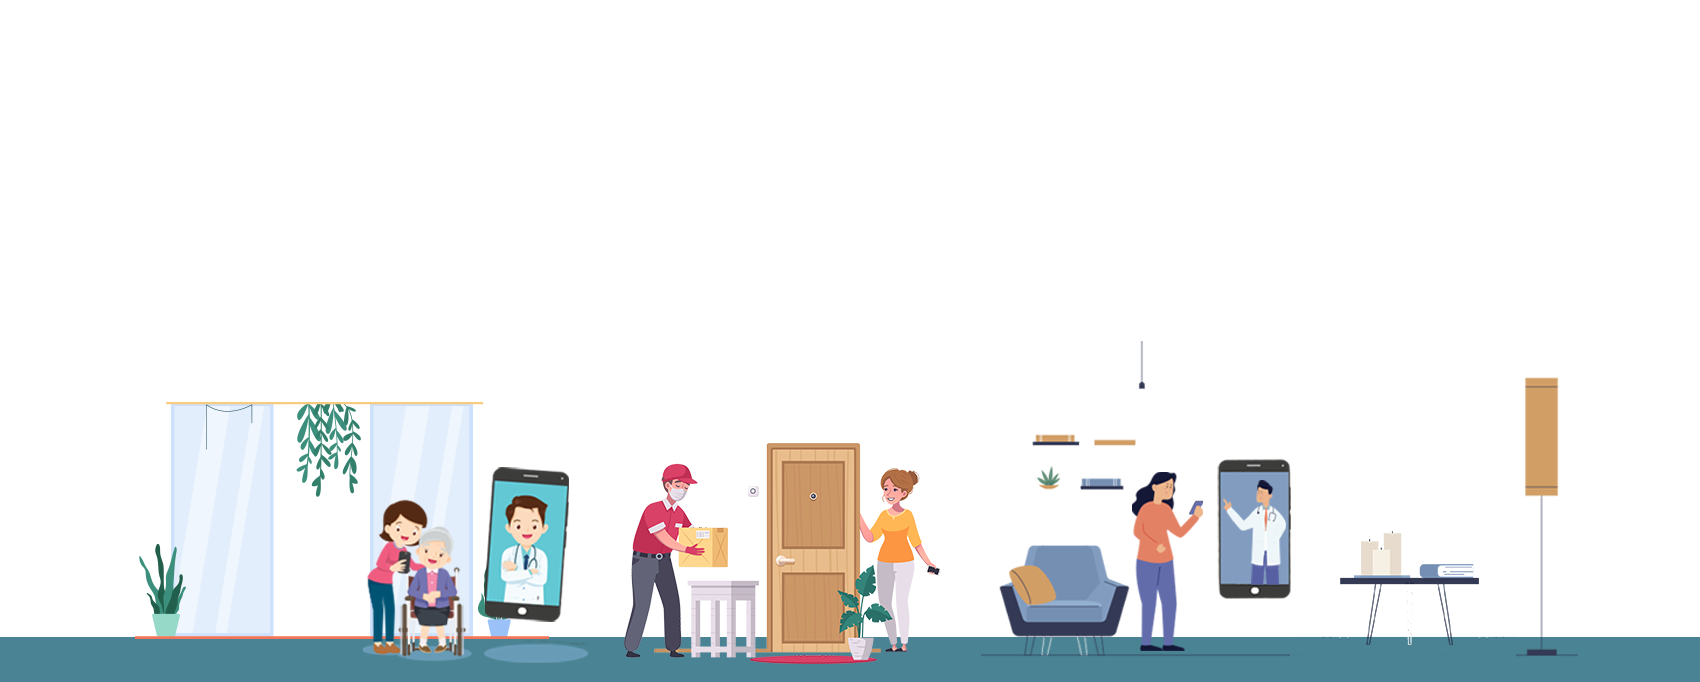
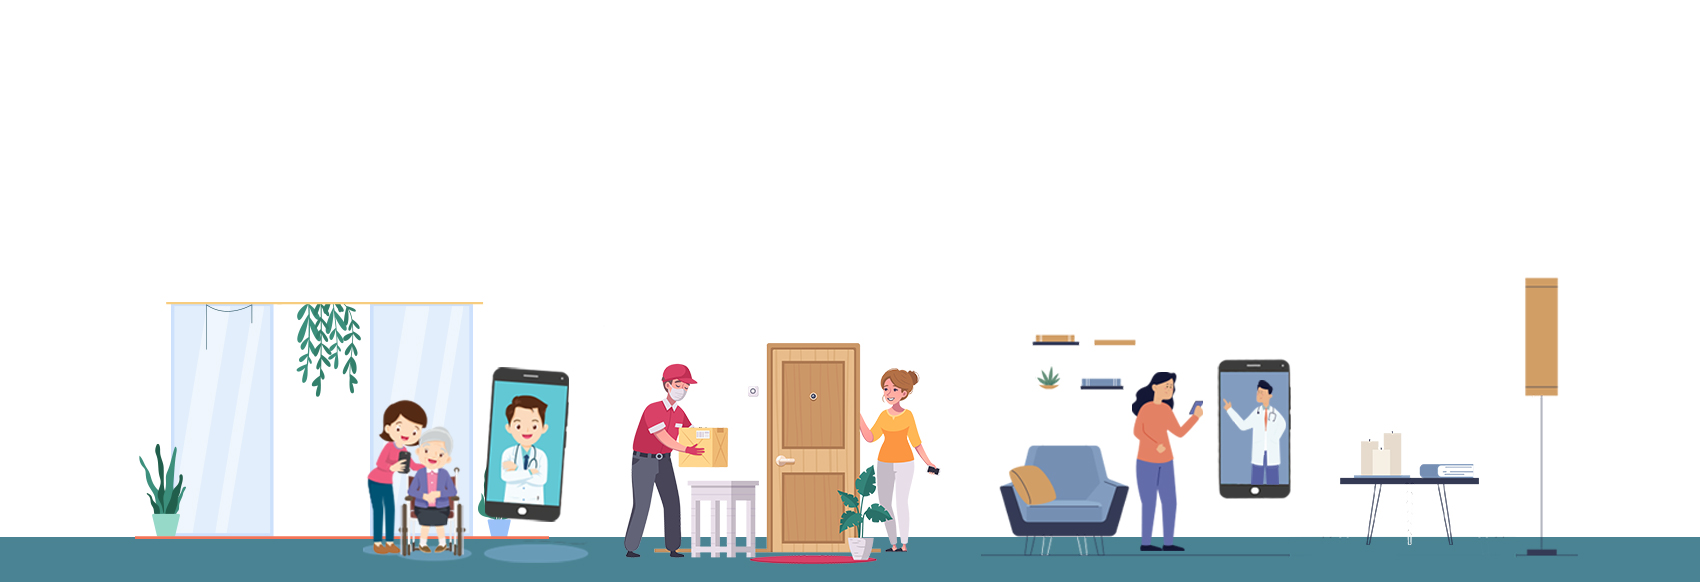
changes

Changed region(s): [[0.0, 0.4948, 1.0, 0.9897], [0.8729, 0.4639, 0.9353, 0.5567], [0.8729, 0.6804, 0.9353, 0.7423]]

diff --git a/src/components/WebSite/Pages/Diagnostics/Main/Diagnostics.js b/src/components/WebSite/Pages/Diagnostics/Main/Diagnostics.js
@@ -3,21 +3,17 @@ import './Diagnostics.css'
 import { DiagTop } from '../DiagData/Icons/DiagTop';
 import { DiagPop } from '../DiagData/Icons/DiagPop';
 import PosterCard from '../Poster/PosterCard';
-import 'bootstrap/dist/js/bootstrap.min';
-import '@popperjs/core/dist/umd/popper.min';
-import 'jquery/dist/jquery.min';
-// import { FontAwesomeIcon } from "@fortawesome/react-fontawesome";
-// import { faSearch } from '@fortawesome/free-solid-svg-icons';
-
-//images
-import iconOne from "../../../../assets/img/specialities/svg/1.svg";
-import iconTwo from "../../../../assets/img/specialities/svg/2.svg";
-import iconThree from "../../../../assets/img/specialities/svg/3.svg";
 import { Link } from 'react-router-dom';
 import { Container } from 'react-bootstrap';
 import Search from '../../DynamicComponents/SearchBar/app/Search';
 import Carousel from '../Components/Carousel';
 import Space from '../../DynamicComponents/Space/Space';
+import Appointment from '../../Appointments/AppointmentD/Appointment';
+//images
+import iconOne from "../../../../assets/img/specialities/svg/1.svg";
+import iconTwo from "../../../../assets/img/specialities/svg/2.svg";
+import iconThree from "../../../../assets/img/specialities/svg/3.svg";
+
 
 
 const Diagnostics = () => {
@@ -84,7 +80,7 @@ const Diagnostics = () => {
 										<div className="pop-box">
 											<div className='popper-design' key={item.id}>
 											<img width={64} height={64} src={item.img} alt=""/>
-											<h4>{item.text}</h4>
+											<h5>{item.text}</h5>
 										
 											</div>
 										</div>
@@ -99,6 +95,8 @@ const Diagnostics = () => {
 				<button className="btn view-btn">View More</button>
 				</Link>
 			</section>
+
+	<Appointment/>
 	
 	<section id="top-tests">
 	<article id="view-btn">
@@ -115,7 +113,7 @@ const Diagnostics = () => {
 									<Link to='/test-detail'>
 									<div className="top-test-1" key={item.id}>
 										<img className="top-test-img" src={item.img} alt=""/>
-										<h4>{item.text}</h4>
+										<h5>{item.text}</h5>
 									</div>
 									</Link>
 								</div>

diff --git a/src/components/WebSite/Pages/Appointments/AppointmentW/Appointment.js b/src/components/WebSite/Pages/Appointments/AppointmentW/Appointment.js
@@ -1,0 +1,30 @@
+import { Container, Row } from "react-bootstrap";
+import aWoman from '../../../../assets/img/app/woman-app.jpg';
+import './Appointment.css'
+
+const Appointment = () => {
+    return ( 
+        <>
+        <Container className='a-banner'>
+            <Row>
+                <div className="col-lg-6">
+                    <img src={aWoman} alt="a-home" />
+                </div>
+                <div className="col-lg-6">
+                    <section className='a-content'>
+                    <h2>Book a Telephonic Consultation</h2>
+                    <article className='con-content'>
+                    <p>Book this method if you want consultation with me over Phone. 
+                        This method is for those who are outside of Bangalore-India 
+                        and unable to visit clinic and meet me personally. </p>
+                        <button type="button" className="btn btn-success">Book Telephonic Appointment</button>
+                    </article>
+                    </section>
+                </div>
+            </Row>
+        </Container>
+        </>
+     );
+}
+ 
+export default Appointment;

diff --git a/src/components/WebSite/Pages/Appointments/AppointmentVC/Appointment.js b/src/components/WebSite/Pages/Appointments/AppointmentVC/Appointment.js
@@ -1,0 +1,30 @@
+import { Container, Row } from "react-bootstrap";
+import aWoman from '../../../../assets/img/app/vc.jpg';
+import './Appointment.css'
+
+const Appointment = () => {
+    return ( 
+        <>
+        <Container className='a-banner'>
+            <Row>
+                <div className="col-lg-6">
+                    <img src={aWoman} alt="a-home" />
+                </div>
+                <div className="col-lg-6">
+                    <section className='a-content'>
+                    <h2>Book a Telephonic Consultation</h2>
+                    <article className='con-content'>
+                    <p>Book this method if you want consultation with me over Phone. 
+                        This method is for those who are outside of Bangalore-India 
+                        and unable to visit clinic and meet me personally. </p>
+                        <button type="button" className="btn btn-success">Book Telephonic Appointment</button>
+                    </article>
+                    </section>
+                </div>
+            </Row>
+        </Container>
+        </>
+     );
+}
+ 
+export default Appointment;

diff --git a/src/components/WebSite/Pages/VirtualCare/VirtualCare.js b/src/components/WebSite/Pages/VirtualCare/VirtualCare.js
@@ -1,6 +1,5 @@
 import React from 'react';
 import { Row } from 'react-bootstrap';
-import AppSection from '../DynamicComponents/AppSectionV/AppSection';
 import MultipleItems from '../Doctors/Doctors/doctors';
 import './VirtualCare.css'
 import vBanner from '../../../assets/img/vbanner.jpg'
@@ -8,6 +7,7 @@ import FAQ from '../DynamicComponents/FAQ/FAQ'
 import Specialitites from '../DynamicComponents/Specialities/specialities';
 import Search from '../DynamicComponents/SearchBar/app/Search';
 import Space from '../DynamicComponents/Space/Space';
+import Appointment from '../Appointments/AppointmentVC/Appointment';
 
 function VirtualCare() {
   return (
@@ -25,8 +25,7 @@ function VirtualCare() {
         </article>
     </section>
     <Specialitites/>
-    
-    <AppSection/>
+<Appointment/>
     <div className="section-header text-center">
       <p className="section-p text-center">Top Online Doctors to Solve Your Health Issues.</p>
   </div> 

diff --git a/src/components/WebSite/Pages/Appointments/Appointment/Appointment.js b/src/components/WebSite/Pages/Appointments/Appointment/Appointment.js
@@ -1,5 +1,5 @@
 import { Container, Row } from "react-bootstrap";
-import aWoman from '../../../assets/img/app/woman-app.jpg';
+import aHome from '../../../../assets/img/app/home-app.jpg';
 import './Appointment.css'
 
 const Appointment = () => {
@@ -8,7 +8,7 @@ const Appointment = () => {
         <Container className='a-banner'>
             <Row>
                 <div className="col-lg-6">
-                    <img src={aWoman} alt="a-home" />
+                    <img src={aHome} alt="a-home" />
                 </div>
                 <div className="col-lg-6">
                     <section className='a-content'>

diff --git a/src/components/WebSite/Pages/Appointments/AppointmentVC/Appointment.css b/src/components/WebSite/Pages/Appointments/AppointmentVC/Appointment.css
@@ -1,0 +1,25 @@
+.a-banner {
+    margin: 4rem auto;
+}
+
+.a-content h2{
+    background-color: #fdfdfd;
+    padding: 1rem;
+}
+.a-content p {
+    font-size: 18px;
+    font-weight: 400;
+}
+.a-content {
+    display: flex;
+    align-items: baseline;
+    justify-content: center;
+    flex-direction: column;
+    padding: 0;
+    margin: 1rem;
+    width: 40vw;
+    height: 50vh;
+}
+.con-content {
+    margin: 2rem 0 0 6rem;
+}

diff --git a/src/components/WebSite/Pages/Appointments/AppointmentW/Appointment.css b/src/components/WebSite/Pages/Appointments/AppointmentW/Appointment.css
@@ -1,0 +1,25 @@
+.a-banner {
+    margin: 4rem auto;
+}
+
+.a-content h2{
+    background-color: #fdfdfd;
+    padding: 1rem;
+}
+.a-content p {
+    font-size: 18px;
+    font-weight: 400;
+}
+.a-content {
+    display: flex;
+    align-items: baseline;
+    justify-content: center;
+    flex-direction: column;
+    padding: 0;
+    margin: 1rem;
+    width: 40vw;
+    height: 50vh;
+}
+.con-content {
+    margin: 2rem 0 0 6rem;
+}

diff --git a/src/components/WebSite/Pages/Home/Home.js b/src/components/WebSite/Pages/Home/Home.js
@@ -8,7 +8,7 @@ import Search from '../DynamicComponents/SearchBar/app/Search';
 import Feedback from './feedback';
 import Blog from '../Blog/Blog';
 import Three from '../DynamicComponents/Three/Three';
-import Appointment from '../Appointment/Appointment';
+import Appointment from '../Appointments/Appointment/Appointment';
 import Space from '../DynamicComponents/Space/Space';
 
 const Home = () => {

diff --git a/src/components/WebSite/Pages/ForWoman/ForWoman.js b/src/components/WebSite/Pages/ForWoman/ForWoman.js
@@ -4,7 +4,7 @@ import BlogTwo from '../Blog/BlogTwo';
 
 import Slide from './Slide/Slide';
 import WHI from './WHI/WHI';
-import Appointment from '../AppointmentW/Appointment';
+import Appointment from '../Appointments/AppointmentW/Appointment';
 import Space from '../DynamicComponents/Space/Space';
 
 const ForWoman = () => {

diff --git a/src/components/WebSite/Pages/Appointments/AppointmentD/Appointment.js b/src/components/WebSite/Pages/Appointments/AppointmentD/Appointment.js
@@ -1,5 +1,5 @@
 import { Container, Row } from "react-bootstrap";
-import aHome from '../../../assets/img/app/home-app.jpg';
+import aHome from '../../../../assets/img/app/home-app.jpg';
 import './Appointment.css'
 
 const Appointment = () => {

diff --git a/src/components/assets/style.css b/src/components/assets/style.css
@@ -2510,7 +2510,7 @@ button.bg-danger:hover {
     margin-top: 4rem;
 }
 .section-specialities {
-	padding: 80px 0;
+	padding: 80px 0 20px;
 }
 .slick-dots {
     position: absolute;

diff --git a/src/components/WebSite/Pages/VirtualCare/VirtualCare.css b/src/components/WebSite/Pages/VirtualCare/VirtualCare.css
@@ -8,7 +8,7 @@
 	justify-content:center;
 	align-items:baseline;
 	margin: 0;
-	height: 90vh; 
+	height: 70vh; 
 	width: 100vw;
 }
 @media only screen and (max-width:479px) {
